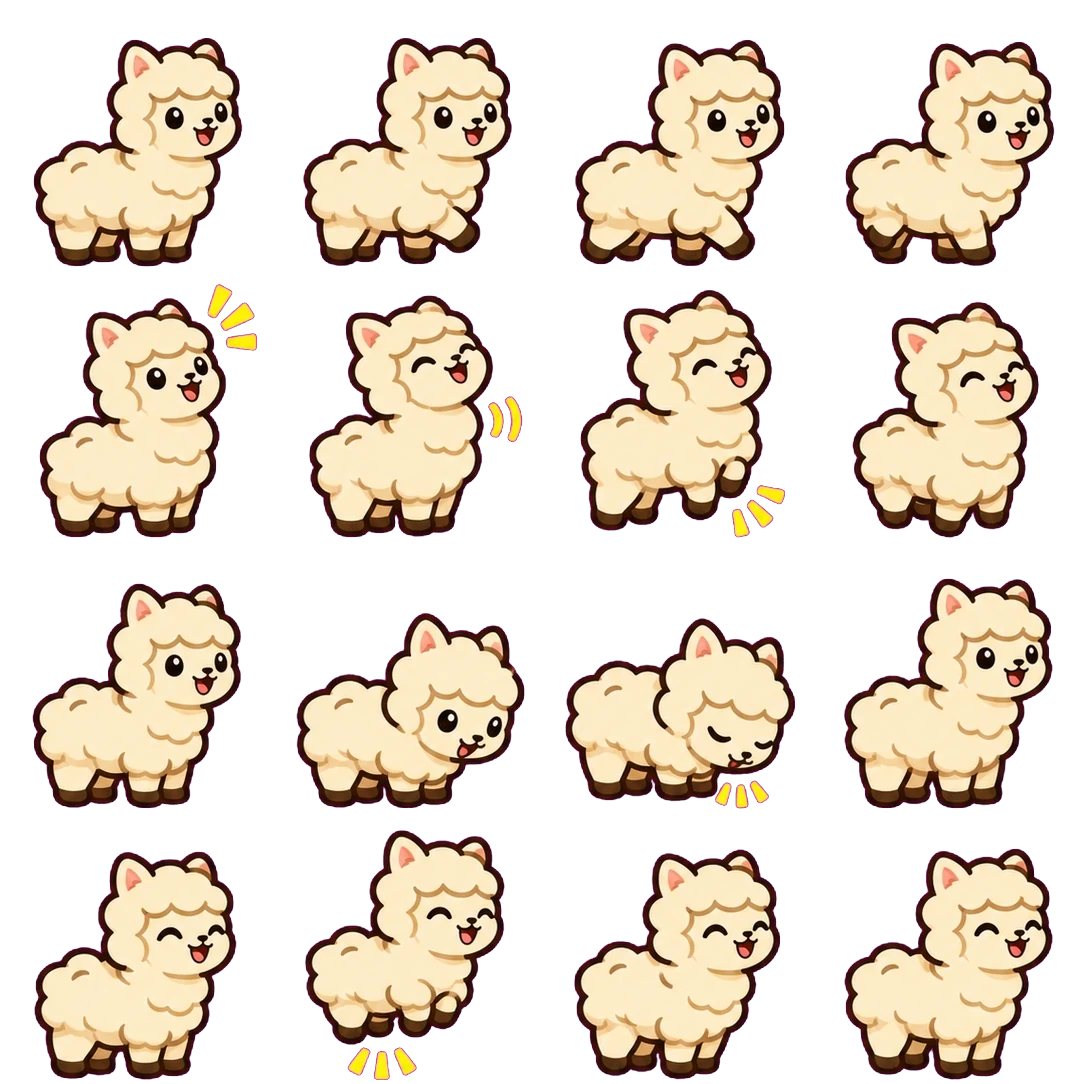
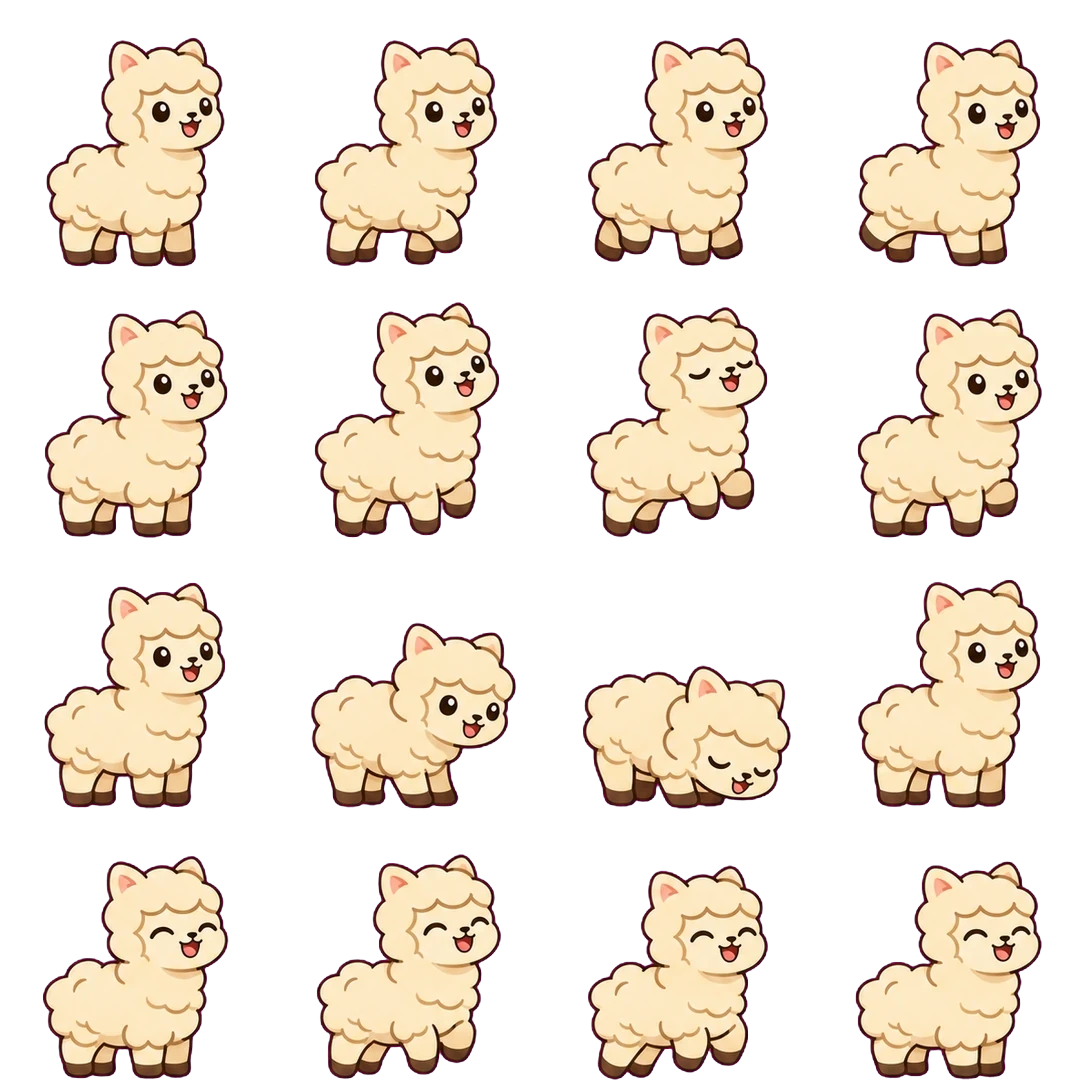
Alpaca and sheep redrawn with thin outlines; new pets: owl (Ultra Rare) and snowy owl (Secret) with a 270-degree head-turn action
Claude-Session: https://claude.ai/code/session_01WYXHXwKxHQowMAYmWZLpUL

diff --git a/index.html b/index.html
@@ -353,7 +353,7 @@
 <script>
 // ---- UI icon set (ui_icons.webp, 18 cells in one row) — emoji are shown until it loads ----
 // bump ASSET_V whenever an icon/emote picture changes, so phones download the new one instead of a cached copy
-var ASSET_V='20261121a';
+var ASSET_V='20261121b';
 const IC_N=['logo','pad','freeze','hide','zombie','fire','flash','run','shirt','gear','globe','trophy','girl','boy','jump','tag','logout','hello'];
 const IC={},IC_C={};
 function icFrom(img,i,name){const n=img.height,c=document.createElement('canvas');c.width=c.height=n;c.getContext('2d').drawImage(img,i*n,0,n,n,0,0,n,n);IC_C[name]=c;IC[name]=c.toDataURL();}
@@ -1724,7 +1724,8 @@ function setSounds(on){SND.sounds=on;lsSet('sw_sounds',on);if(SND.ac)SND.sfx.gai
 // Sprite sheet rows: 0 walk, 1 own action, 2 eat (on the ground), 3 happy; 4 frames each, side view facing right.
 // tame 0..1 : how much it sticks to its owner (high = follows you; low = wanders around the yard and only sometimes comes)
 // speed     : px/s at normal game speed (a kid walks 200)
-const PET_INFO={   // all 38 pets – stats ready for later
+const PET_INFO={   // all pets – stats ready for later
+  owl:{tame:.45,speed:95},snowy_owl:{tame:.4,speed:95},
   orange_cat:{tame:.7,speed:150},tabby_cat:{tame:.6,speed:150},black_cat:{tame:.5,speed:160},calico_cat:{tame:.65,speed:150},white_cat:{tame:.55,speed:130},
   thai_pup:{tame:.85,speed:185},pomeranian:{tame:.9,speed:165},chihuahua:{tame:.8,speed:175},corgi:{tame:.9,speed:170},golden_pup:{tame:.95,speed:185},
   shiba:{tame:.6,speed:185},husky:{tame:.7,speed:200},scottish_fold:{tame:.6,speed:120},persian:{tame:.5,speed:100},holland_lop:{tame:.55,speed:140},
@@ -1753,7 +1754,7 @@ const PET_DEFS={   // pets that have their sprite sheet in the game now
   baby_panda:{name:'Baby Panda',h:99,special:'roll',feel:2,still:[2,3]},
   golden_pup:{name:'Golden Puppy',h:92,special:'playbow',feel:7,still:[2,3]},
   squirrel:{name:'Squirrel',h:71,special:'nibble',feel:7,still:[2,3]},
-  alpaca:{name:'Alpaca',h:152,special:'prance',feel:2,still:[2,3]},
+  alpaca:{name:'Alpaca',h:153,special:'prance',feel:2,still:[2,3]},
   meerkat:{name:'Meerkat',h:77,special:'lookout',feel:1,still:[2,3]},
   chinchilla:{name:'Chinchilla',h:65,special:'spin',feel:7,still:[2,3]},
   arctic_fox:{name:'Arctic Fox',h:86,special:'pounce',feel:7,still:[2,3]},
@@ -1775,10 +1776,12 @@ const PET_DEFS={   // pets that have their sprite sheet in the game now
   cockatoo:{name:'Cockatoo',h:60,special:'crest',feel:10,still:[2,3],fly:{row:1,frames:[1,2,3,2],alt:38,speed:2.2}},
   french_bulldog:{name:'French Bulldog',h:86,special:'snort',feel:7,still:[2,3]},
   mini_pig:{name:'Mini Pig',h:103,special:'dig',feel:7,still:[2,3]},
-  sheep:{name:'Sheep',h:125,special:'baa',feel:2,still:[2,3]}};
+  owl:{name:'Owl',h:61,special:'headturn',feel:6,still:[2,3]},
+  snowy_owl:{name:'Snowy Owl',h:66,special:'headturn',feel:6,still:[2,3]},
+  sheep:{name:'Sheep',h:128,special:'baa',feel:2,still:[2,3]}};
 const petReady=id=>!!PETS_IMG[id];   // new pets appear once their sprite sheet has been added
 // where the mouth is when eating (m) and where the bottom is (b), as a share of the picture height, measured on each sheet
-const PET_GEO={"calico_cat": {"m": 0.472, "b": 0.448}, "sloth": {"m": 0.362, "b": 0.363}, "corgi": {"m": 0.452, "b": 0.426}, "turtle": {"m": 0.446, "b": 0.47}, "capybara": {"m": 0.466, "b": 0.46}, "hamster": {"m": 0.421, "b": 0.379}, "holland_lop": {"m": 0.46, "b": 0.455}, "baby_penguin": {"m": 0.365, "b": 0.36}, "shiba": {"m": 0.385, "b": 0.423}, "otter": {"m": 0.453, "b": 0.447}, "red_panda": {"m": 0.468, "b": 0.452}, "orange_cat": {"m": 0.43, "b": 0.489}, "guinea_pig": {"m": 0.462, "b": 0.465}, "hedgehog": {"m": 0.462, "b": 0.46}, "koala": {"m": 0.41, "b": 0.433}, "fennec_fox": {"m": 0.45, "b": 0.456}, "baby_panda": {"m": 0.416, "b": 0.407}, "golden_pup": {"m": 0.466, "b": 0.435}, "squirrel": {"m": 0.45, "b": 0.465}, "alpaca": {"m": 0.424, "b": 0.386}, "meerkat": {"m": 0.444, "b": 0.444}, "chinchilla": {"m": 0.451, "b": 0.455}, "arctic_fox": {"m": 0.442, "b": 0.459}, "tabby_cat": {"m": 0.444, "b": 0.444}, "black_cat": {"m": 0.464, "b": 0.462}, "white_cat": {"m": 0.424, "b": 0.478}, "thai_pup": {"m": 0.434, "b": 0.382}, "pomeranian": {"m": 0.43, "b": 0.47}, "chihuahua": {"m": 0.384, "b": 0.341}, "husky": {"m": 0.371, "b": 0.426}, "scottish_fold": {"m": 0.441, "b": 0.474}, "persian": {"m": 0.474, "b": 0.467}, "bearded_dragon": {"m": 0.439, "b": 0.466}, "chameleon": {"m": 0.43, "b": 0.445}, "leopard_gecko": {"m": 0.459, "b": 0.472}, "axolotl": {"m": 0.465, "b": 0.47}, "sugar_glider": {"m": 0.453, "b": 0.453}, "mini_pig": {"m": 0.365, "b": 0.459}};
+const PET_GEO={"calico_cat": {"m": 0.472, "b": 0.448}, "sloth": {"m": 0.362, "b": 0.363}, "corgi": {"m": 0.452, "b": 0.426}, "turtle": {"m": 0.446, "b": 0.47}, "capybara": {"m": 0.466, "b": 0.46}, "hamster": {"m": 0.421, "b": 0.379}, "holland_lop": {"m": 0.46, "b": 0.455}, "baby_penguin": {"m": 0.365, "b": 0.36}, "shiba": {"m": 0.385, "b": 0.423}, "otter": {"m": 0.453, "b": 0.447}, "red_panda": {"m": 0.468, "b": 0.452}, "orange_cat": {"m": 0.43, "b": 0.489}, "guinea_pig": {"m": 0.462, "b": 0.465}, "hedgehog": {"m": 0.462, "b": 0.46}, "koala": {"m": 0.41, "b": 0.433}, "fennec_fox": {"m": 0.45, "b": 0.456}, "baby_panda": {"m": 0.416, "b": 0.407}, "golden_pup": {"m": 0.466, "b": 0.435}, "squirrel": {"m": 0.45, "b": 0.465}, "alpaca": {"m": 0.393, "b": 0.334}, "meerkat": {"m": 0.444, "b": 0.444}, "chinchilla": {"m": 0.451, "b": 0.455}, "arctic_fox": {"m": 0.442, "b": 0.459}, "tabby_cat": {"m": 0.444, "b": 0.444}, "black_cat": {"m": 0.464, "b": 0.462}, "white_cat": {"m": 0.424, "b": 0.478}, "thai_pup": {"m": 0.434, "b": 0.382}, "pomeranian": {"m": 0.43, "b": 0.47}, "chihuahua": {"m": 0.384, "b": 0.341}, "husky": {"m": 0.371, "b": 0.426}, "scottish_fold": {"m": 0.441, "b": 0.474}, "persian": {"m": 0.474, "b": 0.467}, "bearded_dragon": {"m": 0.439, "b": 0.466}, "chameleon": {"m": 0.43, "b": 0.445}, "leopard_gecko": {"m": 0.459, "b": 0.472}, "axolotl": {"m": 0.465, "b": 0.47}, "sugar_glider": {"m": 0.453, "b": 0.453}, "mini_pig": {"m": 0.365, "b": 0.459}, "owl": {"m": 0.413, "b": 0.375}, "snowy_owl": {"m": 0.42, "b": 0.412}, "sheep": {"m": 0.439, "b": 0.414}};
 const petCellH=p=>petH(p)/0.85*0.98;
 const PETS_IMG={};
 function petImg(id){if(PETS_IMG[id]!==undefined)return PETS_IMG[id];PETS_IMG[id]=null;
@@ -1806,7 +1809,7 @@ function savePets(){lsSet('sw_pets',JSON.stringify(PETS.map(p=>p.id)));}
 // small animals with a fast heartbeat (hamster, budgie) get hungry quickly but eat little; slow animals (sloth, turtle) hardly get hungry;
 // big grazers (capybara) and busy hunters (otter) eat a lot. rate = points per minute of play, meal = portions to go from starving to full.
 const PET_APPETITE={hamster:[22,1],budgie:[24,1],guinea_pig:[18,2],holland_lop:[16,2],calico_cat:[11,2],orange_cat:[11,2],corgi:[13,3],shiba:[12,3],
-  golden_pup:[13,4],otter:[20,3],baby_penguin:[15,2],capybara:[14,4],red_panda:[10,3],baby_panda:[12,4],koala:[5,2],sloth:[3,2],turtle:[4,1],hedgehog:[14,2],fennec_fox:[13,2],squirrel:[20,1],macaw:[14,2],cockatoo:[15,2],french_bulldog:[13,3],mini_pig:[16,4],sheep:[12,4],scottish_fold:[10,2],persian:[9,2],bearded_dragon:[8,2],chameleon:[7,1],leopard_gecko:[6,1],axolotl:[9,1],sugar_glider:[18,1],tabby_cat:[11,2],black_cat:[11,2],white_cat:[10,2],thai_pup:[13,3],pomeranian:[14,2],chihuahua:[16,1],husky:[15,4],alpaca:[9,3],meerkat:[16,2],chinchilla:[14,1],arctic_fox:[13,2]};
+  golden_pup:[13,4],otter:[20,3],baby_penguin:[15,2],capybara:[14,4],red_panda:[10,3],baby_panda:[12,4],koala:[5,2],sloth:[3,2],turtle:[4,1],hedgehog:[14,2],fennec_fox:[13,2],squirrel:[20,1],owl:[9,2],snowy_owl:[9,2],macaw:[14,2],cockatoo:[15,2],french_bulldog:[13,3],mini_pig:[16,4],sheep:[12,4],scottish_fold:[10,2],persian:[9,2],bearded_dragon:[8,2],chameleon:[7,1],leopard_gecko:[6,1],axolotl:[9,1],sugar_glider:[18,1],tabby_cat:[11,2],black_cat:[11,2],white_cat:[10,2],thai_pup:[13,3],pomeranian:[14,2],chihuahua:[16,1],husky:[15,4],alpaca:[9,3],meerkat:[16,2],chinchilla:[14,1],arctic_fox:[13,2]};
 const appetite=id=>PET_APPETITE[id]||[12,2];
 const HUNGER=(()=>{let v={};try{v=JSON.parse(localStorage.getItem('sw_hunger'))||{};}catch(e){}const now=Date.now();
   for(const k in v){const mins=Math.min(60,(now-(v[k].t||now))/60000);v[k].h=Math.min(100,(v[k].h||0)+appetite(k)[0]*mins*.4);}return v;})();   // time away counts a little
@@ -1865,11 +1868,11 @@ function drawPoops(push){for(const q of POOP){const k=S.scale/0.7;push(q.y,()=>{
 const FOODS=[{id:'kibble',n:'Kibble',e:'🟤'},{id:'fish',n:'Fish',e:'🐟'},{id:'leaves',n:'Leaves',e:'🍃'},{id:'fruit',n:'Fruit',e:'🍎'},{id:'seeds',n:'Seeds',e:'🌻'},{id:'bugs',n:'Bugs',e:'🐛'},{id:'carrot',n:'Carrot',e:'🥕'},{id:'hay',n:'Hay',e:'🌾'}];
 const FOOD_FANS={   // what each pet likes, close to what the real animal eats
   kibble:'orange_cat tabby_cat black_cat calico_cat white_cat scottish_fold persian thai_pup pomeranian chihuahua corgi golden_pup shiba husky french_bulldog fennec_fox arctic_fox hedgehog',
-  fish:'orange_cat tabby_cat black_cat calico_cat white_cat scottish_fold persian otter baby_penguin axolotl arctic_fox',
+  fish:'snowy_owl orange_cat tabby_cat black_cat calico_cat white_cat scottish_fold persian otter baby_penguin axolotl arctic_fox',
   leaves:'holland_lop guinea_pig alpaca turtle capybara bearded_dragon red_panda sloth koala baby_panda mini_pig sheep',
   fruit:'hamster squirrel budgie macaw cockatoo turtle sugar_glider bearded_dragon red_panda sloth capybara mini_pig',
   seeds:'hamster guinea_pig squirrel budgie macaw cockatoo chinchilla sugar_glider',
-  bugs:'chameleon leopard_gecko bearded_dragon hedgehog meerkat sugar_glider axolotl fennec_fox',
+  bugs:'owl snowy_owl chameleon leopard_gecko bearded_dragon hedgehog meerkat sugar_glider axolotl fennec_fox',
   carrot:'holland_lop guinea_pig turtle capybara alpaca mini_pig sheep',
   hay:'holland_lop guinea_pig chinchilla alpaca capybara sheep'};
 const likes=(id,kind)=>FOOD_FANS[kind].split(' ').includes(id);
@@ -2002,8 +2005,8 @@ function dropSpot(e){if(MAPID!=='home')return null;const a=toApp(e.clientX,e.cli
 // rarity tiers (names agreed: Common / Rare / Ultra Rare / Secret)
 const PET_TIERS={common:['orange_cat','tabby_cat','black_cat','calico_cat','white_cat','thai_pup','pomeranian','chihuahua','corgi','golden_pup'],
   rare:['shiba','husky','scottish_fold','persian','french_bulldog','holland_lop','hamster','guinea_pig','squirrel','budgie','turtle','mini_pig','sheep'],
-  ultra:['capybara','alpaca','fennec_fox','bearded_dragon','chameleon','hedgehog','axolotl','meerkat','sugar_glider','leopard_gecko','chinchilla','macaw','cockatoo'],
-  secret:['red_panda','sloth','otter','koala','baby_panda','arctic_fox','baby_penguin']};
+  ultra:['owl','capybara','alpaca','fennec_fox','bearded_dragon','chameleon','hedgehog','axolotl','meerkat','sugar_glider','leopard_gecko','chinchilla','macaw','cockatoo'],
+  secret:['snowy_owl','red_panda','sloth','otter','koala','baby_panda','arctic_fox','baby_penguin']};
 const TIER_OF={};for(const t in PET_TIERS)PET_TIERS[t].forEach(id=>TIER_OF[id]=t);
 const TIER_NAME={common:'Common',rare:'Rare',ultra:'Ultra Rare',secret:'Secret'};
 let PET_INFO_ID=null;
